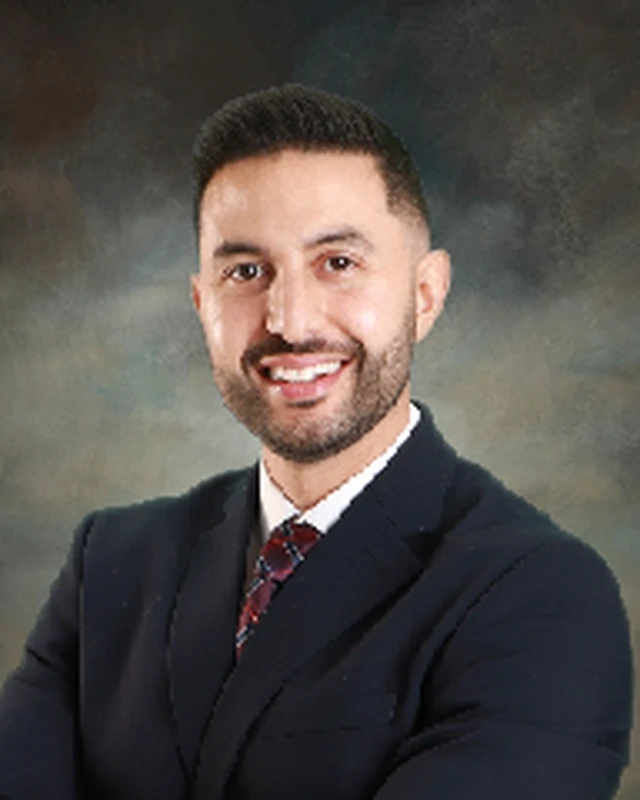
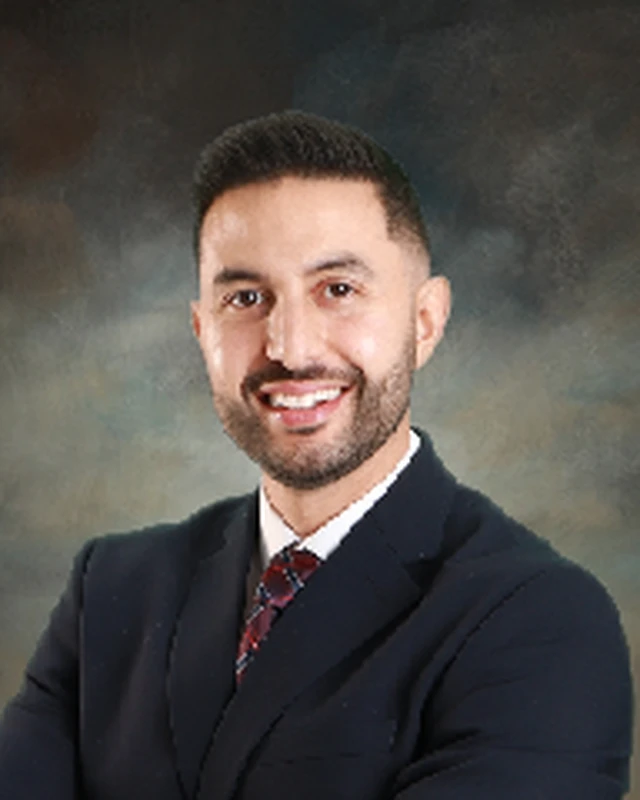
Concept 2: team photos back in colour, eye lines aligned

diff --git a/concept-2/index.html b/concept-2/index.html
@@ -329,7 +329,7 @@ header.nav.scrolled .nav-shell{background:var(--nav-bg);backdrop-filter:blur(18p
 .team-grid{display:grid;grid-template-columns:repeat(2,minmax(0,300px));justify-content:center;gap:24px}
 .member{overflow:hidden}
 .member .photo{aspect-ratio:4/5;overflow:hidden;position:relative}
-.member .photo img{width:100%;height:100%;object-fit:cover;object-position:center top;transition:.6s;filter:grayscale(1) contrast(1.08)}
+.member .photo img{width:100%;height:100%;object-fit:cover;object-position:center top;transition:.6s}
 .member:hover .photo img{transform:scale(1.07)}
 .member .photo::after{content:"";position:absolute;inset:0;background:var(--card-img-scrim),radial-gradient(120% 90% at 50% 38%,transparent 52%,rgba(4,8,6,.55) 100%)}
 .member .info{padding:20px 22px;text-align:center}
